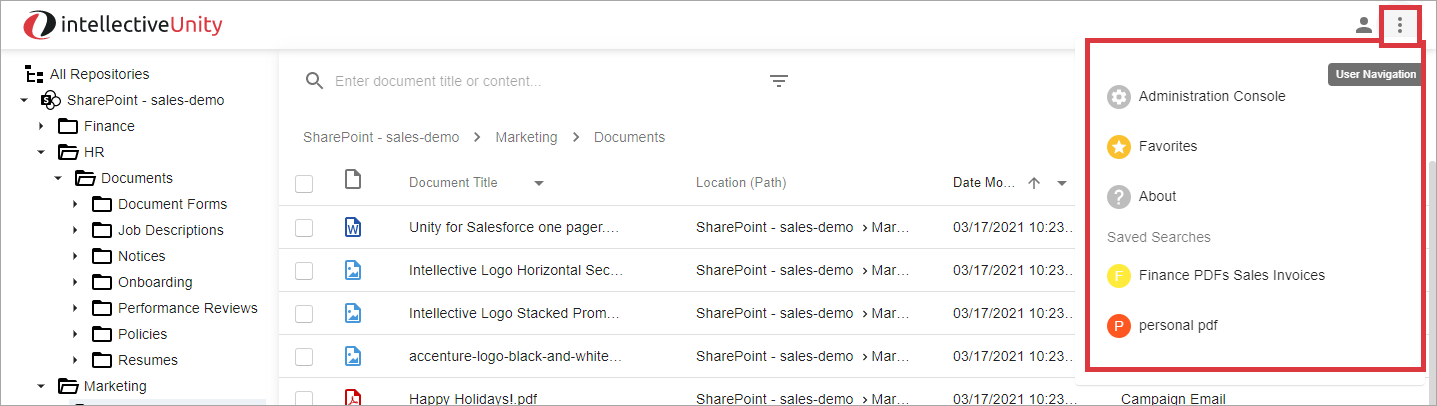
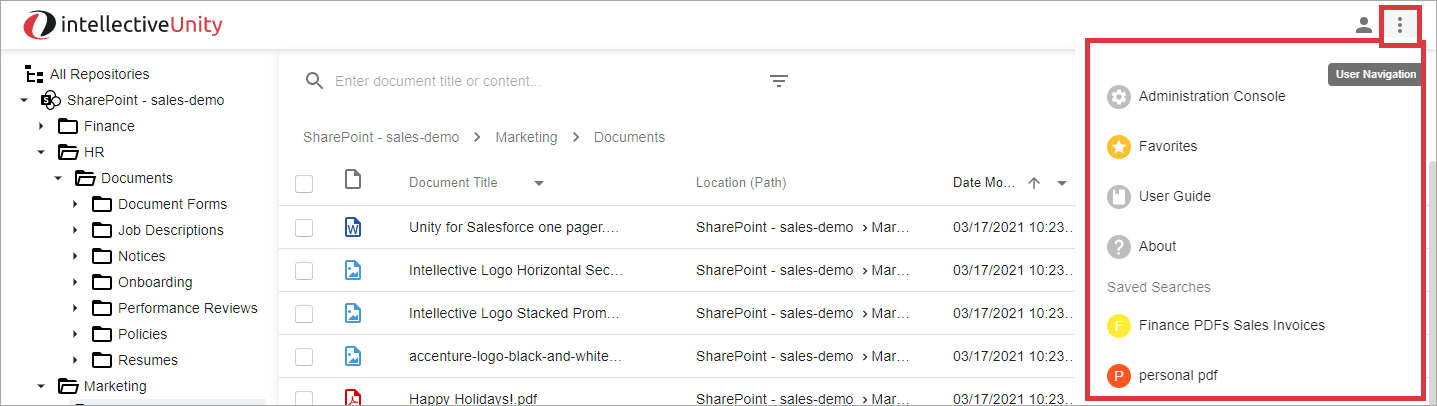
Updating content

diff --git a/_docs/tutorials/unity-8-user-guide.md b/_docs/tutorials/unity-8-user-guide.md
@@ -6,7 +6,7 @@ category: Unity 7
 # Getting Started
 
 Your Unity Pre-Configured SharePoint Demo instance contains the following pre-defined SharePoint Sites and content. 
-This is to give you a working example of Unity’s capabilities working with different sites and documents:
+This is to give you a working example of Unity’s capabilities accessing different sites and documents:
 
 - Finance
 - HR
@@ -24,6 +24,8 @@ After requesting your Unity Pre-Configured SharePoint Demo instance, the request
 - The URL to use to log into your Unity instance.  
     
     To log in, go to the URL provided in email, and log in with one of the account User IDs provided.  
+    
+|**Note**: To run Unity in demo mode, without impacting other SharePoint sessions, please open a Private Browser window and enter the Unity Application URL provided above.
 
 # Unity User Interface Overview
 
@@ -428,6 +430,12 @@ You may take the following actions on multiple selected documents:
     
     Shows the same `Move to / Copy to` interface used for single documents, allowing you to copy or move multiple documents at the same time.
 
+By clicking the `Export` button you can export metadata fields for selected documents to CSV file:
+
+[![Export](unity-8-user-guide/images/export.png)](unity-8-user-guide/images/export.png) 
+
+You may select `CSV(current fields)` option to export fields that are currently shown in [grid columns](#grid-columns), or `CSV(all fields)` option to export all fields.
+
 ### Create Document
 
 You can easily add new documents to your repositories, right from Unity.
@@ -529,11 +537,15 @@ The Navigation Setting Menu provides access to the following:
     - System Account  
       Allows the Administrator to indicate System Account Information
 
-- About Unity
 - Favorites  
     
     Shows a list of favorite documents. See [Favorites](#favorites) for details. 
 
+- User Guide
+
+    Shows this User Guide.
+    
+- About Unity
 - Saved searches  
     
     Shows a list of saved searches. See [Saved Searches](#saved-searches) for details.
